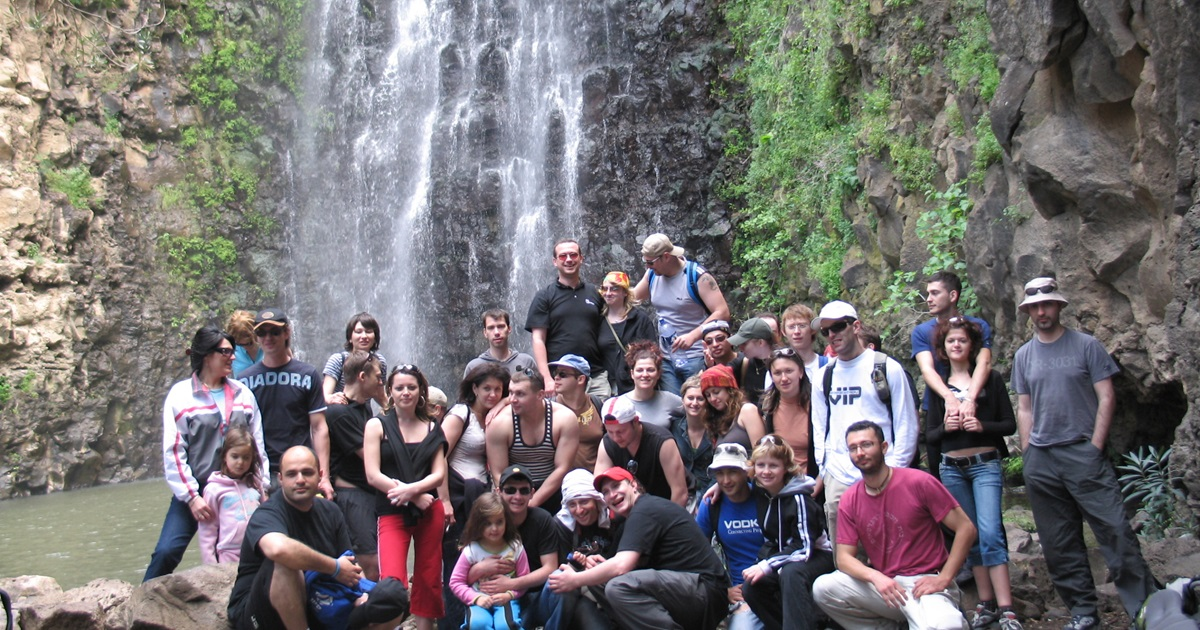
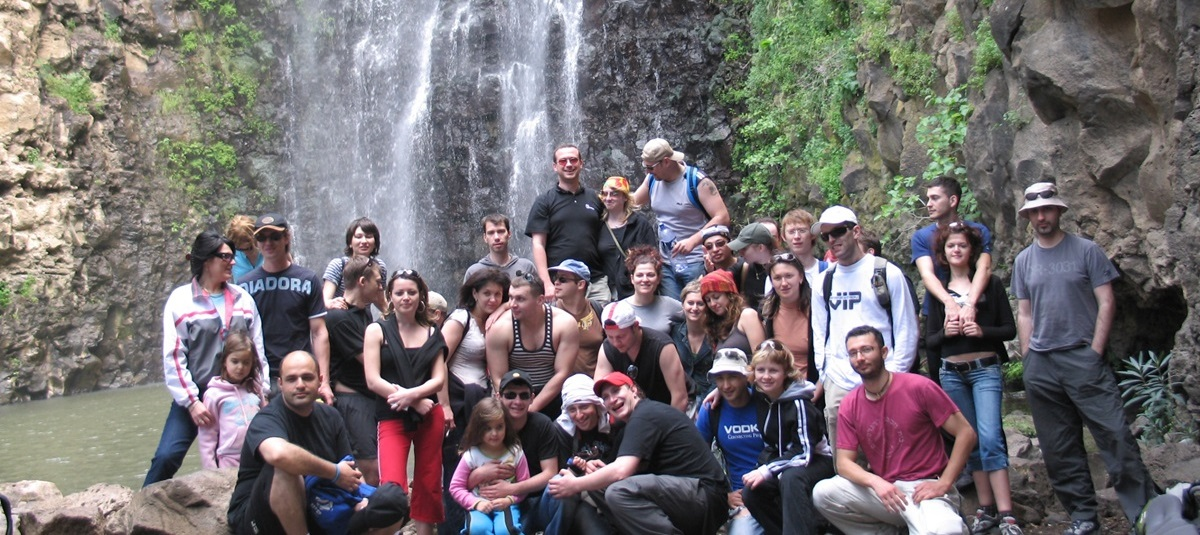
20.12.25.12.02

diff --git a/app/page.tsx b/app/page.tsx
@@ -21,6 +21,16 @@ export default function Home() {
         <div className="absolute -top-24 -right-24 w-96 h-96 bg-teal-400/20 blur-3xl rounded-full" />
         <div className="absolute -bottom-24 -left-24 w-96 h-96 bg-amber-400/20 blur-3xl rounded-full" />
         <div className="relative">
+	{/* Главное фото */}
+	<div className="mb-6 overflow-hidden rounded-3xl border border-zinc-200">
+	  {/* eslint-disable-next-line @next/next/no-img-element */}
+	  <img
+ 	   src="/images/hero.jpg"
+  	   alt="Главное фото сообщества"
+ 	   className="w-full h-64 md:h-80 object-cover"
+	   loading="eager"
+ 	 />
+	</div>
           <h1 className="text-3xl md:text-5xl font-bold tracking-tight mb-3">Таки Гуляки</h1>
           <p className="text-zinc-700 max-w-2xl text-lg">Прогулки, встречи и мастер-классы. Добавляйте в календарь и делитесь с друзьями.</p>
           <div className="mt-6 flex flex-col sm:flex-row gap-3">
